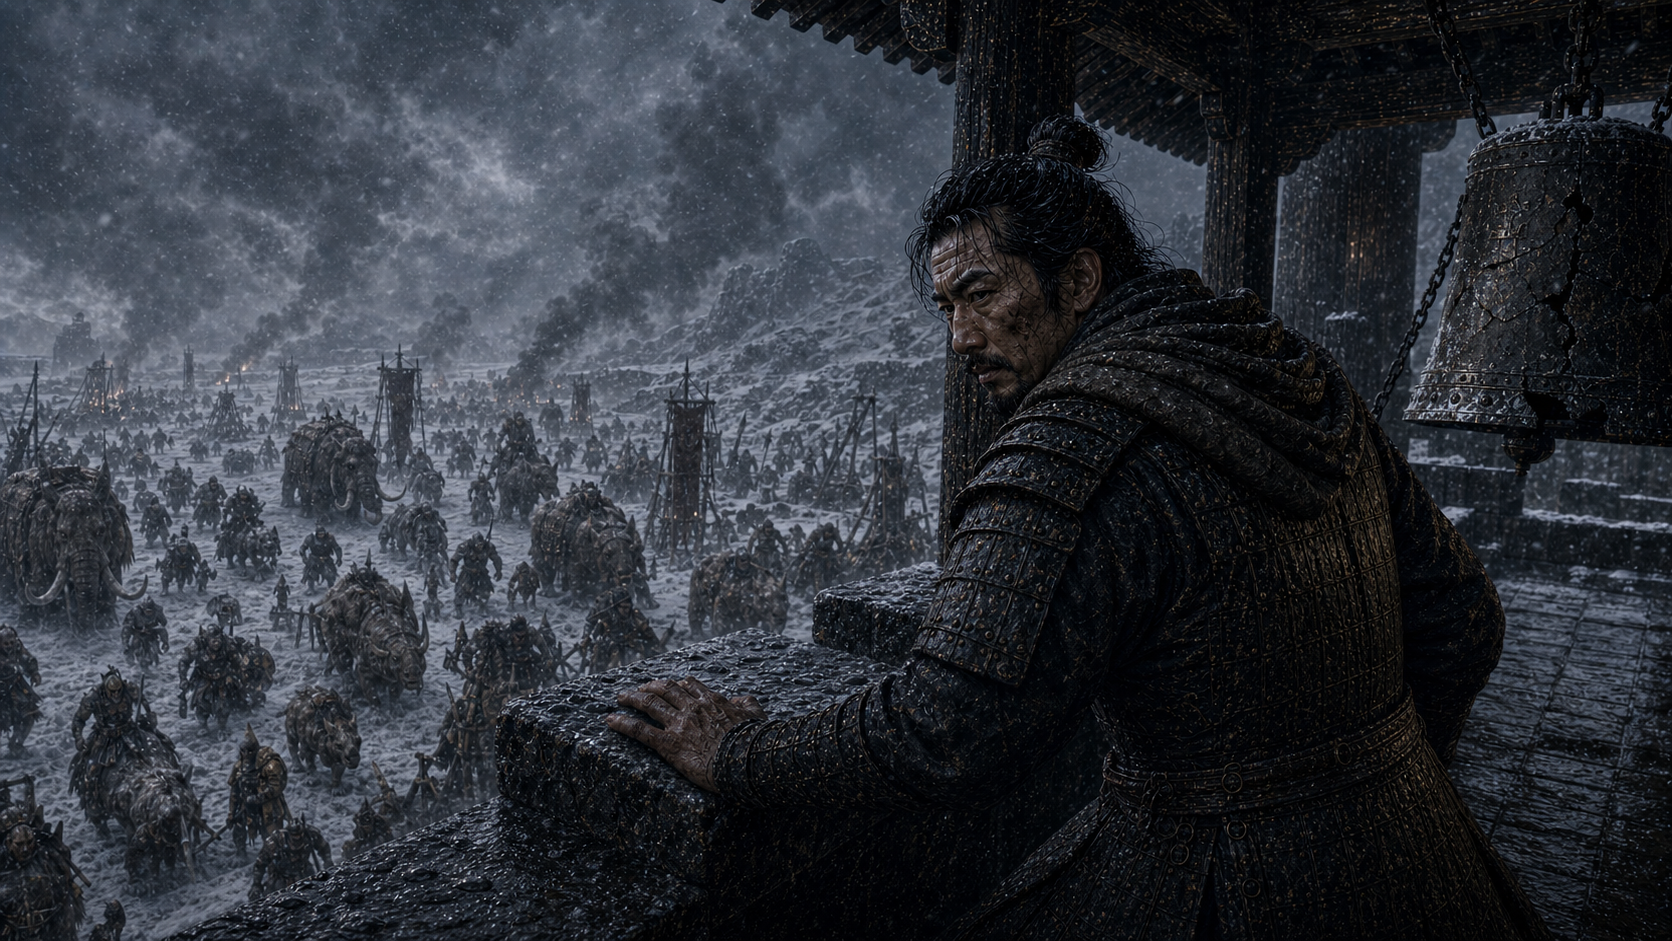
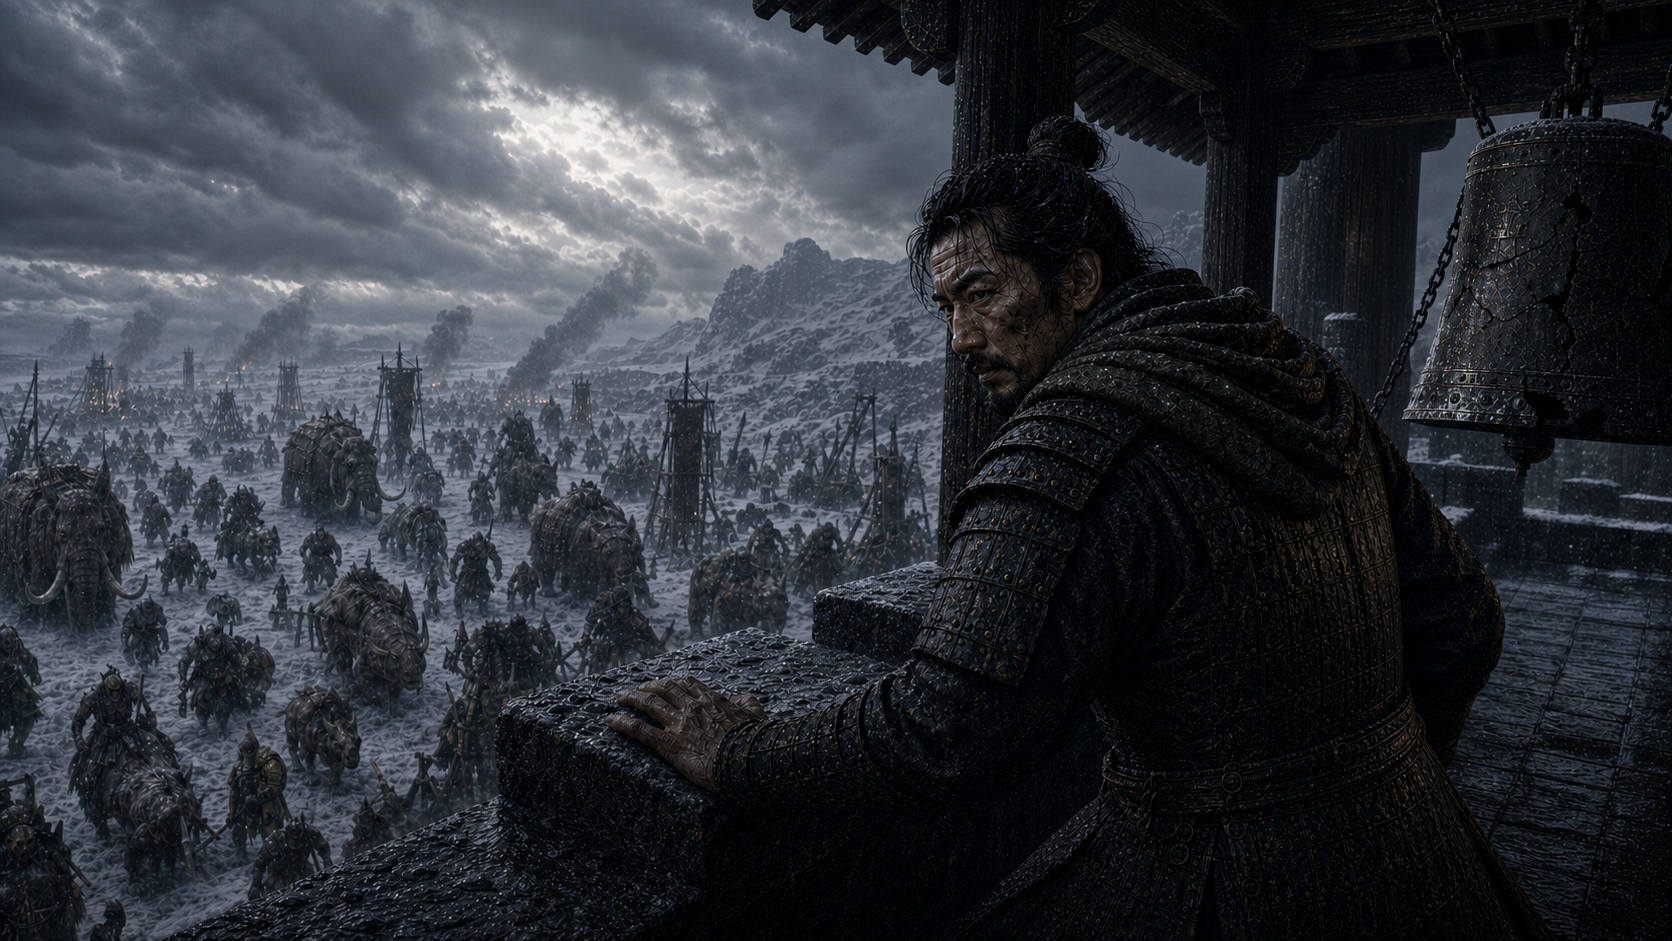
fix: 统一 SC001 R003/R004 正式帧质感
背景：
用户确认 R003/R004 的空间和内容已经可用，但指出两张图相较 R001/R002 粒子感过强、真实感偏便宜、光影不一致，并要求优化后替换为正式图片。

主要改动：
- 重新生成 R003/R004 风格统一版，降低雪粒和数字颗粒密度，去除廉价高频锐化和闪粉感。
- 将 R003/R004 光影统一到 R001/R002 的冷白裂云光、黑石负补光、克制暖边和湿材质反光。
- 覆盖正式 reference-frames/r003e01.png 与 reference-frames/r004e01.png，并同步 candidate mirror。
- 更新任务清单、资源索引、执行清单、QC、反馈日志和最终报告，将状态改为用户确认后正式晋升。

验证：
- 已视觉检查 R003/R004 正式帧。
- 已用 sips 确认 R003/R004 尺寸。
- 已用 shasum 确认 reference-frame 与 candidate mirror 完全一致。
- 已用 jq/JSONL/git diff --check 校验更新文件。

diff --git a/project/severed-homeland/01/reviews/sc001-r003-r004-candidate-qc-2026-06-13.md b/project/severed-homeland/01/reviews/sc001-r003-r004-candidate-qc-2026-06-13.md
@@ -1,13 +1,13 @@
-# SC001 R003/R004 Candidate QC - 2026-06-13
+# SC001 R003/R004 Candidate QC - 2026-06-13/14
 
 ## Scope
 
-- Current canonical frames reviewed read-only:
-  - `01/assets/reference-frames/r003e01.png`
-  - `01/assets/reference-frames/r004e01.png`
-- Current non-canonical candidates:
-  - `01/assets/director-room/shots/SC001-SH002/candidates/r003e01.candidate.png` (`v005_after_open_eyes_c020_c021_p016_fix`, 1672x940)
-  - `01/assets/director-room/shots/SC001-SH003/candidates/r004e01.candidate.png` (`v004_after_c020_c021_exterior_p016_fix`, 1672x941)
+- Current canonical frames promoted after user approval:
+  - `01/assets/reference-frames/r003e01.png` (`v006_style_matched_promoted`, 1672x940)
+  - `01/assets/reference-frames/r004e01.png` (`v005_style_matched_promoted`, 1672x941)
+- Current candidate mirrors:
+  - `01/assets/director-room/shots/SC001-SH002/candidates/r003e01.candidate.png` (`v006_style_matched_promoted`, 1672x940)
+  - `01/assets/director-room/shots/SC001-SH003/candidates/r004e01.candidate.png` (`v005_style_matched_promoted`, 1672x941)
 - Rejected or superseded candidate archives:
   - `01/assets/director-room/shots/SC001-SH002/candidates/history/r003e01.candidate.rejected-v001-20260613.png`
   - `01/assets/director-room/shots/SC001-SH002/candidates/history/r003e01.candidate.rejected-v002-20260613.png`
@@ -16,6 +16,8 @@
   - `01/assets/director-room/shots/SC001-SH003/candidates/history/r004e01.candidate.rejected-v001-20260613.png`
   - `01/assets/director-room/shots/SC001-SH003/candidates/history/r004e01.candidate.rejected-v002-before-metal-bell-space-fix-20260613.png`
   - `01/assets/director-room/shots/SC001-SH003/candidates/history/r004e01.candidate.rejected-v003-before-c020-c021-exterior-fix-20260614.png`
+  - `01/assets/director-room/shots/SC001-SH002/candidates/history/r003e01.candidate.promoted-source-before-style-match-20260614.png`
+  - `01/assets/director-room/shots/SC001-SH003/candidates/history/r004e01.candidate.promoted-source-before-style-match-20260614.png`
 
 ## Latest Feedback Read
 
@@ -31,13 +33,15 @@ User feedback corrected three constraints:
 - The bell emblem is the global `P016` Zhaoming sun-moon astrolabe remnant. `P018` Northern Beast Alliance marks are allowed only on attacker-side shields, hide banners, tack, or siege gear, never on the bell.
 - The R003 soldier must inherit `E01_C024A` and read as alive after aftershock: half-open or squinting eyes, visible breath, bracing hand, bent knee, slipping boot. Closed corpse eyes or a limp dead face fail QC.
 
+2026-06-14 style-match feedback approved the current scene/action content but required R003/R004 to stop reading as cheaper generated images: particle/noise density was too high, realism felt cheap, and lighting did not match R001/R002. The new pass therefore reduces snow speck density and digital grain, removes glitter/oversharpening, and matches the R001/R002 low-key storm-break sky, blackstone negative fill, restrained warm accents, and wet material highlights.
+
 The storyboard micro-edit description is recorded in `01/storyboard/sc001-r003-r004-microedit-script-2026-06-13.md`.
 
 ## Candidate QC
 
 ### R003 Candidate
 
-Status: `usable_candidate_pending_user_visual_qc`
+Status: `promoted_to_canonical_reference_frame_after_user_approval`
 
 Passes:
 - Reads as the same gatehouse interior tied to the same wall/gate space.
@@ -45,14 +49,15 @@ Passes:
 - The soldier now reads as `E01_C024A`-compatible young grey-wall defender knocked down and bracing, with half-open/squinting eyes, visible breath, active hand/knee/boot tension, rather than staged as a corpse.
 - The bell now reads as dark oxidized metal with age damage and a broken partial `P016`-derived Zhaoming emblem, not a clean complete emblem and not `P018`.
 - Exterior background is reduced to cold snow haze and battle pressure rather than readable houses or city streets.
+- The promoted style-match pass reduces heavy particle noise, removes cheap digital grain, and makes wet blackstone, old wood, oxidized metal, armor and snow mud lighting closer to R001/R002.
 
 Risks:
 - The bell is now visually dominant. If the director wants the soldier to carry more of the frame, use a local crop/mask edit rather than regenerating the whole space.
 - The exact Zhaoming emblem remains partially abstract by design; do not make it complete or legible in the next pass.
 
-### R004 Candidate
+### R004 Candidate / Promoted Reference
 
-Status: `usable_candidate_pending_user_visual_qc`
+Status: `promoted_to_canonical_reference_frame_after_user_approval`
 
 Passes:
 - Keeps Xue Linqiang on the same blackstone parapet/gatehouse walkway facing wall exterior.
@@ -61,6 +66,7 @@ Passes:
 - Keeps the same old metal alarm bell behind Xue under the gatehouse timber.
 - The bell surface remains an old Zhaoming metal bell with only broken `P016`-derived emblem traces; no `P018` mark is placed on the bell.
 - The foreground stone blocks read as the same parapet edge, not a second wall in front of the gate.
+- The promoted style-match pass brings the storm sky, blackstone parapet, armor edge light, bell rim and exterior battlefield values closer to R001/R002 and reduces the previous overactive particle texture.
 
 Risks:
 - Some siege silhouettes remain loose because this is a candidate frame, not the final painted reference. Preserve them as low-detail background pressure unless a later pass needs precise attacker silhouettes.
@@ -68,6 +74,6 @@ Risks:
 
 ## Decision
 
-Both files remain candidate frames only. Do not overwrite `01/assets/reference-frames/r003e01.png` or `01/assets/reference-frames/r004e01.png` until user/director visual QC approves promotion.
+Both files have now been promoted to canonical reference frames because the user explicitly approved the scene/action result and requested optimized replacements as the formal images.
 
-Latest result: the current R003/R004 candidates address the space direction, ancient metal bell, broken `P016` Zhaoming emblem, `C020`/`C021`/`E01_C020` exterior attacker inheritance, living `E01_C024A` knocked-down soldier, and swinging bell feedback enough for the next visual QC pass.
+Latest result: `r003e01.png` and `r004e01.png` now address the space direction, ancient metal bell, broken `P016` Zhaoming emblem, `C020`/`C021`/`E01_C020` exterior attacker inheritance, living `E01_C024A` knocked-down soldier, swinging bell feedback, and R001/R002 style-matching feedback.

diff --git a/project/severed-homeland/01/reports/director-room-final-report.md b/project/severed-homeland/01/reports/director-room-final-report.md
@@ -77,6 +77,8 @@
 
 2026-06-14 下一版修复：SC001 R003/R004 的外侧敌军、警钟徽章和年轻军户状态已继续收紧。墙外攻城剪影必须继承 `C020`/`C021`/`E01_C020` 的兽族士兵与伴生兽关系，不得是人族军阵、通用单一兽人潮或无主怪物群；警钟残徽只继承 `P016` 昭明日月星盘残徽，`P018` 北境兽族联盟徽章只可用于攻城方器具或旗面远景细节，不能上钟；R003 年轻军户继承 `E01_C024A`，必须读作半睁眼、喘息、撑地、屈膝、靴底打滑的被震倒活人。
 
+2026-06-14 风格统一与正式替换：用户确认 R003/R004 的空间和内容已可用，但指出与 R001/R002 相比粒子感过强、真实感偏便宜、光影不一致。已用 Codex built-in image generation 以 R001/R002 为风格目标重做 R003/R004：降低雪粒和数字颗粒密度，去除廉价高频锐化和闪粉感，统一为 R001/R002 的冷白裂云光、黑石负补光、克制暖边和湿材质反光。用户已明确要求替换正式图，因此本轮已覆盖 `01/assets/reference-frames/r003e01.png` 和 `01/assets/reference-frames/r004e01.png`，并同步更新 director-room candidate mirror。
+
 ## 工具执行结果
 
 Blender：完成。实际使用路径：
@@ -89,10 +91,12 @@ Blender：完成。实际使用路径：
 
 ComfyUI：服务可用但模型缺失。`http://127.0.0.1:8188/system_stats` 返回 ComfyUI `0.24.0`，MPS 后端可见；但 `CheckpointLoaderSimple` 的 checkpoint 列表为空，`ControlNetLoader` 的 ControlNet 列表为空。本机发现的 `stable-diffusion-webui` SD2.1 权重文件是断链，临时接入 ComfyUI 后执行报错，随后已清理该失效符号链接。`run_sc001_comfyui_keyframes.py` 已写入并执行预检，结果记录在 `01/production/comfyui-sc001-keyframe-run.json`。2026-06-13 后续改用 Codex built-in image generation 对 R003/R004 先生成非 canonical candidate。
 
-关键帧候选图：R003/R004 已生成 candidate，R001/R002 仍未生成。已写入：
+关键帧候选图与正式帧：R003/R004 已生成风格统一版并晋升为正式 reference-frame，R001/R002 仍沿用既有正式参考帧且未生成新的 candidate。已写入：
 
-- `01/assets/director-room/shots/SC001-SH002/candidates/r003e01.candidate.png`，1672x940，状态：`generated_candidate_pending_user_visual_qc`，版本：`v005_after_open_eyes_c020_c021_p016_fix`
-- `01/assets/director-room/shots/SC001-SH003/candidates/r004e01.candidate.png`，1672x941，状态：`generated_candidate_pending_user_visual_qc`，版本：`v004_after_c020_c021_exterior_p016_fix`
+- `01/assets/reference-frames/r003e01.png`，1672x940，状态：`promoted_style_matched_final`，版本：`v006_style_matched_promoted`
+- `01/assets/reference-frames/r004e01.png`，1672x941，状态：`promoted_style_matched_final`，版本：`v005_style_matched_promoted`
+- `01/assets/director-room/shots/SC001-SH002/candidates/r003e01.candidate.png`，1672x940，状态：`promoted_to_canonical_reference_frame_after_user_approval`，版本：`v006_style_matched_promoted`
+- `01/assets/director-room/shots/SC001-SH003/candidates/r004e01.candidate.png`，1672x941，状态：`promoted_to_canonical_reference_frame_after_user_approval`，版本：`v005_style_matched_promoted`
 
 未写入以下 candidate 输出：
 
@@ -116,13 +120,13 @@ R003/R004 candidate QC 记录见 `01/reviews/sc001-r003-r004-candidate-qc-2026-0
 | imagegenpro / Codex image generation R003-R004 | 86 | 85 | 1 | candidate 已生成，待用户 QC |
 | studio-tool-execution-agent / capability report | 94 | 85 | 1 | 通过 |
 
-整体状态：`partial_candidates_ready_r003_r004_comfyui_model_missing_for_r001_r002`。阻塞原因不是 SC001 空间规划或 Blender 控制图缺失，而是 ComfyUI 当前没有可执行 checkpoint；若要把深度图和线稿图接成 ControlNet，还需要安装对应 ControlNet 模型。R003/R004 已有 Codex image generation candidate，可先做人工视觉 QC。
+整体状态：`r003_r004_promoted_to_reference_frames_r001_r002_comfyui_model_missing`。阻塞原因不是 SC001 空间规划或 Blender 控制图缺失，而是 ComfyUI 当前没有可执行 checkpoint；若要把深度图和线稿图接成 ControlNet，还需要安装对应 ControlNet 模型。R003/R004 已按用户确认晋升为正式 reference-frame；R001/R002 仍沿用既有正式参考帧。
 
 ## 用户反馈处理
 
-用户要求的步骤 1、2、3、4、5、6 已完成。用户对顶视图不可读的反馈已处理，已重新导出可读版 `top-view.png` 和 `camera-map.png`。用户要求升级“带统一材质/贴图的场景母版”已处理，已从同一 Blender 场景导出材质锁、正反母版、关键道具关系图和调度母版图。步骤 7 已把控制图交给本地 ComfyUI API 预检并尝试执行，但因模型缺失失败；随后按用户要求用 Codex built-in image generation 生成 R003/R004 candidate。本次追加处理了用户指出的六项问题：门楼面向墙外时不应出现房屋或城市，警钟应为五千年昭明旧帝国金属钟且残徽破损，R003 士兵应为被撞门余震震倒而非死亡，墙外攻城剪影应继承 C020/C021/E01_C020 的兽族士兵与伴生兽，警钟残徽应继承全局 P016 且不得误用 P018，R003 士兵应继承 E01_C024A 并呈现半睁眼、喘息、撑地、屈膝、靴底打滑的活人被震倒状态。步骤 8 等待用户/导演 QC 指出具体局部问题后再由 Krita/GIMP 执行。
+用户要求的步骤 1、2、3、4、5、6 已完成。用户对顶视图不可读的反馈已处理，已重新导出可读版 `top-view.png` 和 `camera-map.png`。用户要求升级“带统一材质/贴图的场景母版”已处理，已从同一 Blender 场景导出材质锁、正反母版、关键道具关系图和调度母版图。步骤 7 已把控制图交给本地 ComfyUI API 预检并尝试执行，但因模型缺失失败；随后按用户要求用 Codex built-in image generation 生成 R003/R004 candidate。本次追加处理了用户指出的七项问题：门楼面向墙外时不应出现房屋或城市，警钟应为五千年昭明旧帝国金属钟且残徽破损，R003 士兵应为被撞门余震震倒而非死亡，墙外攻城剪影应继承 C020/C021/E01_C020 的兽族士兵与伴生兽，警钟残徽应继承全局 P016 且不得误用 P018，R003 士兵应继承 E01_C024A 并呈现半睁眼、喘息、撑地、屈膝、靴底打滑的活人被震倒状态，R003/R004 风格应降低粒子感并统一到 R001/R002 的真实光影。步骤 8 等待用户/导演 QC 指出具体局部问题后再由 Krita/GIMP 执行。
 
-本轮没有覆盖或修改现有 `01/assets/reference-frames/r001e01.png` 到 `r004e01.png`。其中 `r003e01.png`、`r004e01.png` 在工作区原本已有用户改动，本轮只读使用；新图只写入 director-room shot `candidates/`。
+本轮未覆盖或修改 `01/assets/reference-frames/r001e01.png`、`01/assets/reference-frames/r002e01.png`。用户明确要求把优化后的 R003/R004 替换为正式图片，因此本轮已覆盖 `01/assets/reference-frames/r003e01.png`、`01/assets/reference-frames/r004e01.png`，并让 director-room shot `candidates/` 与正式帧保持同图。
 
 ## 后续解除阻塞步骤
 